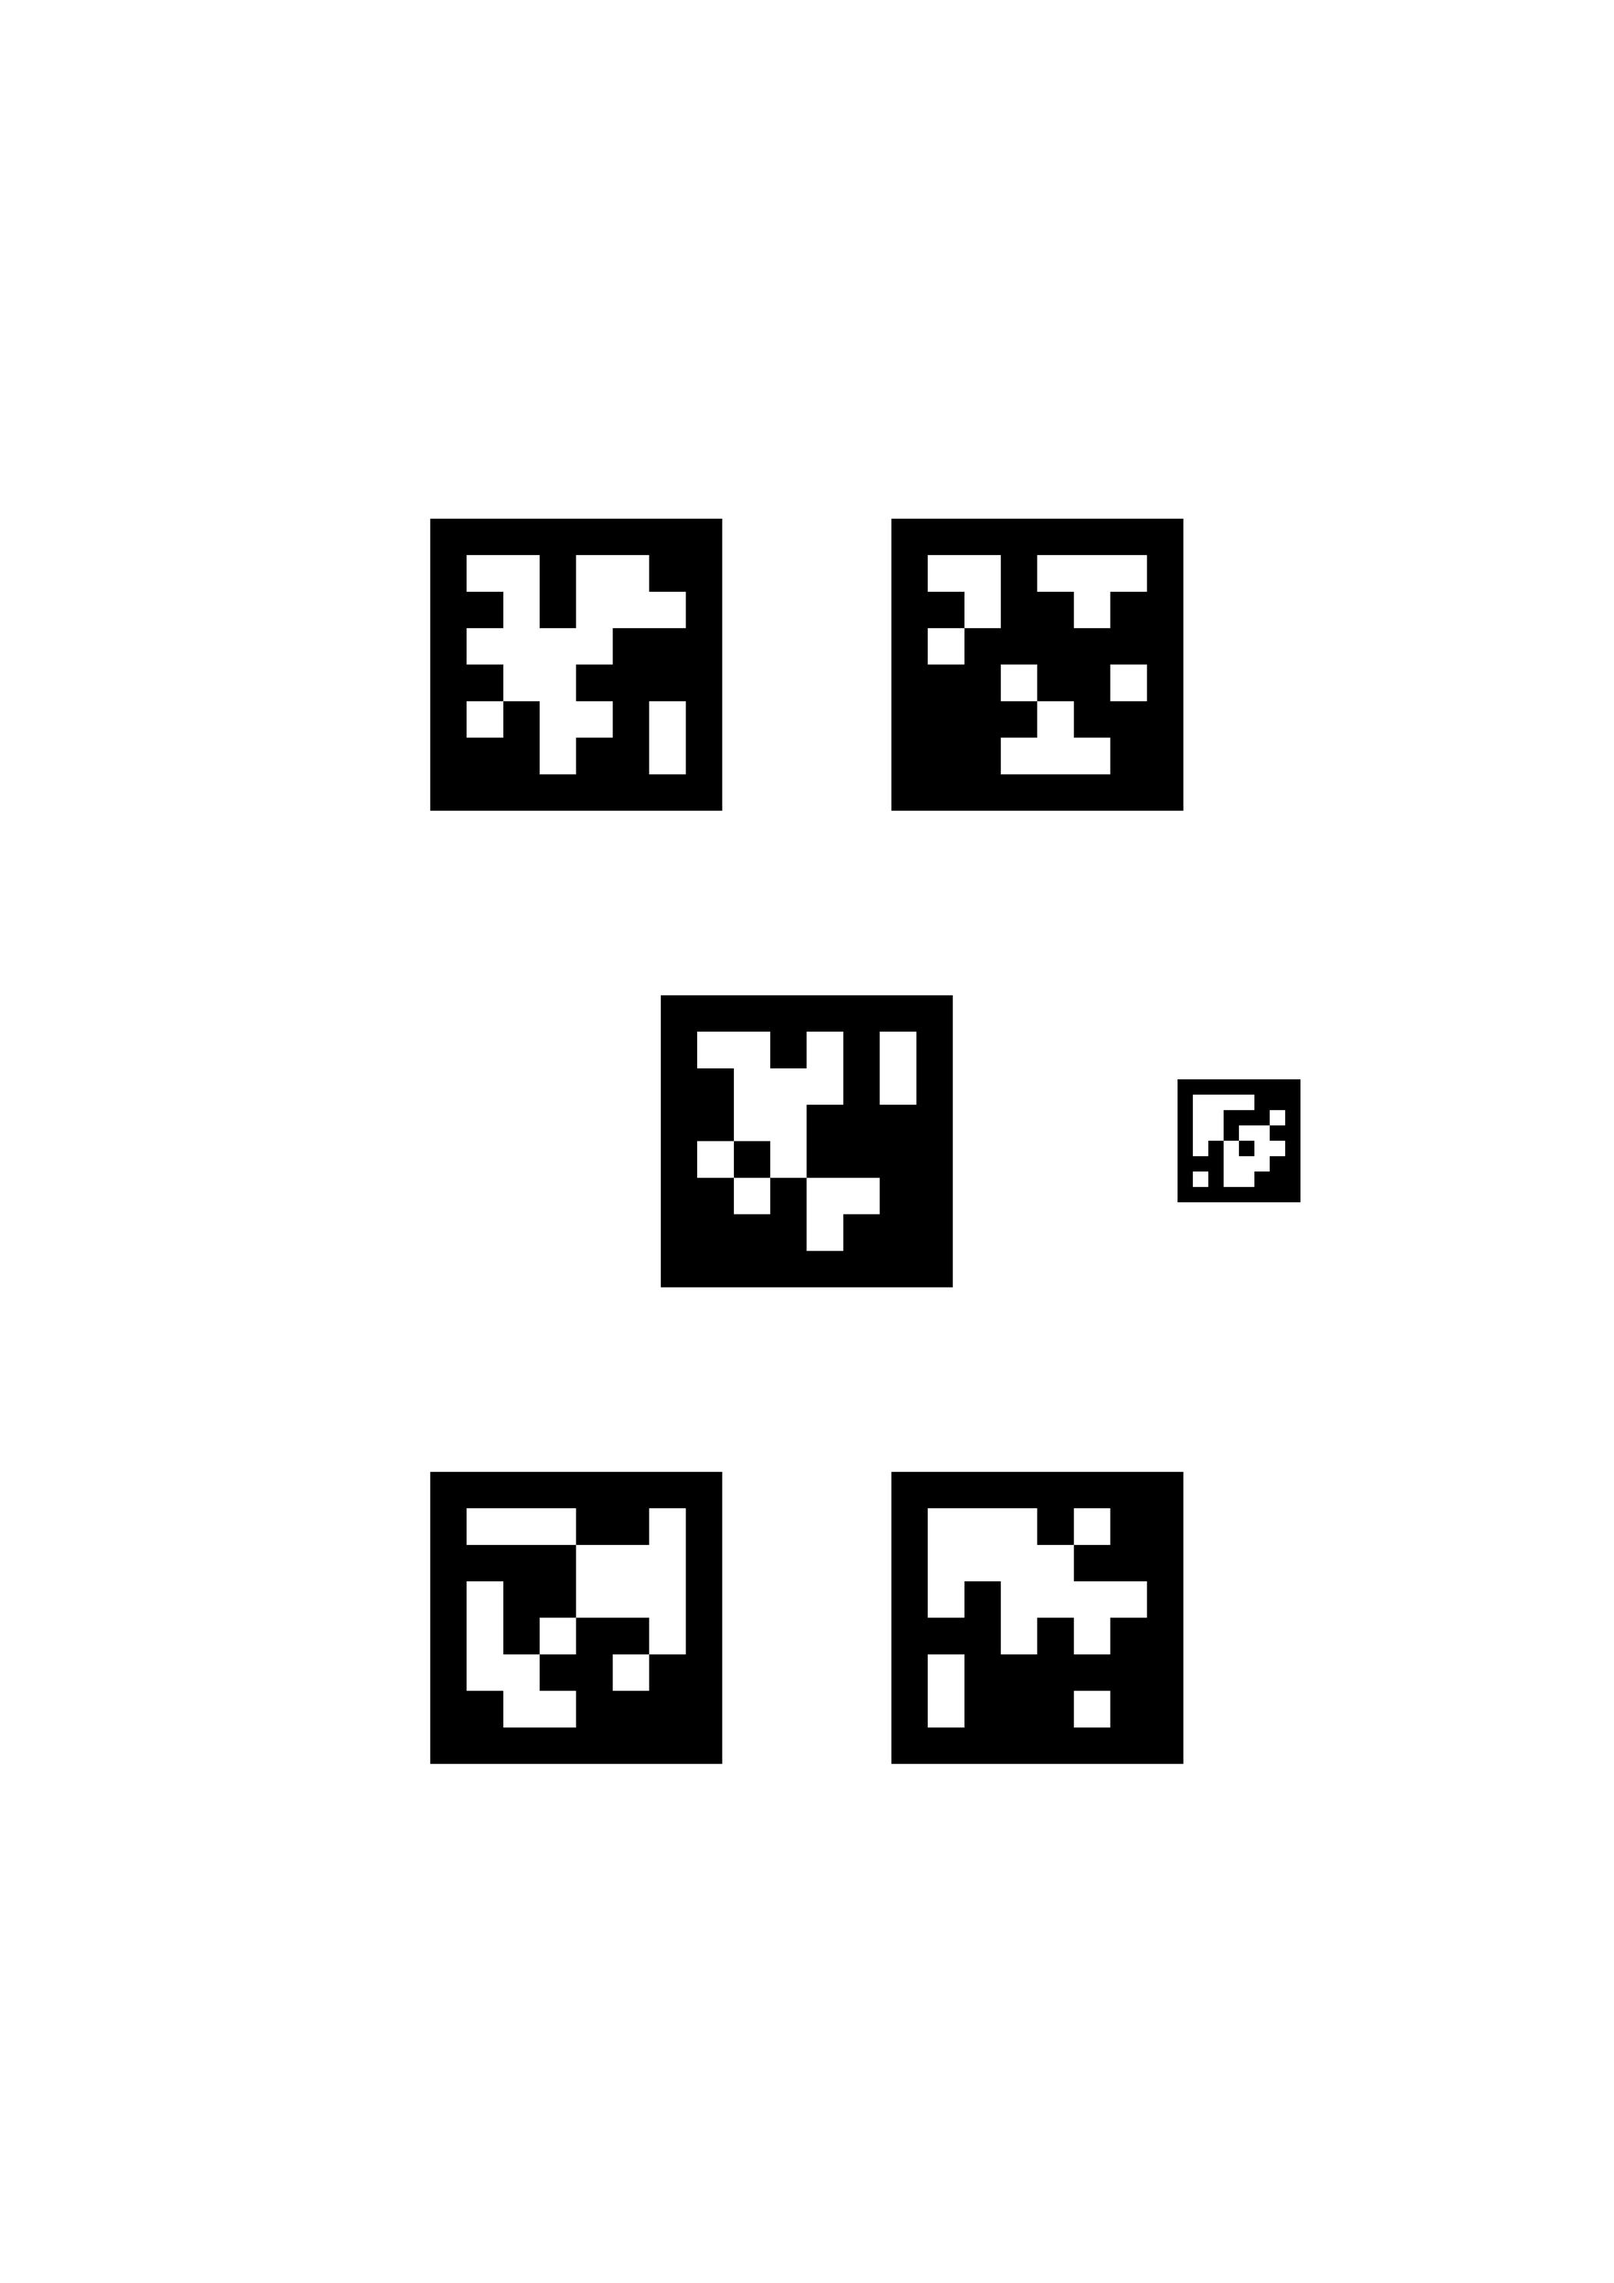
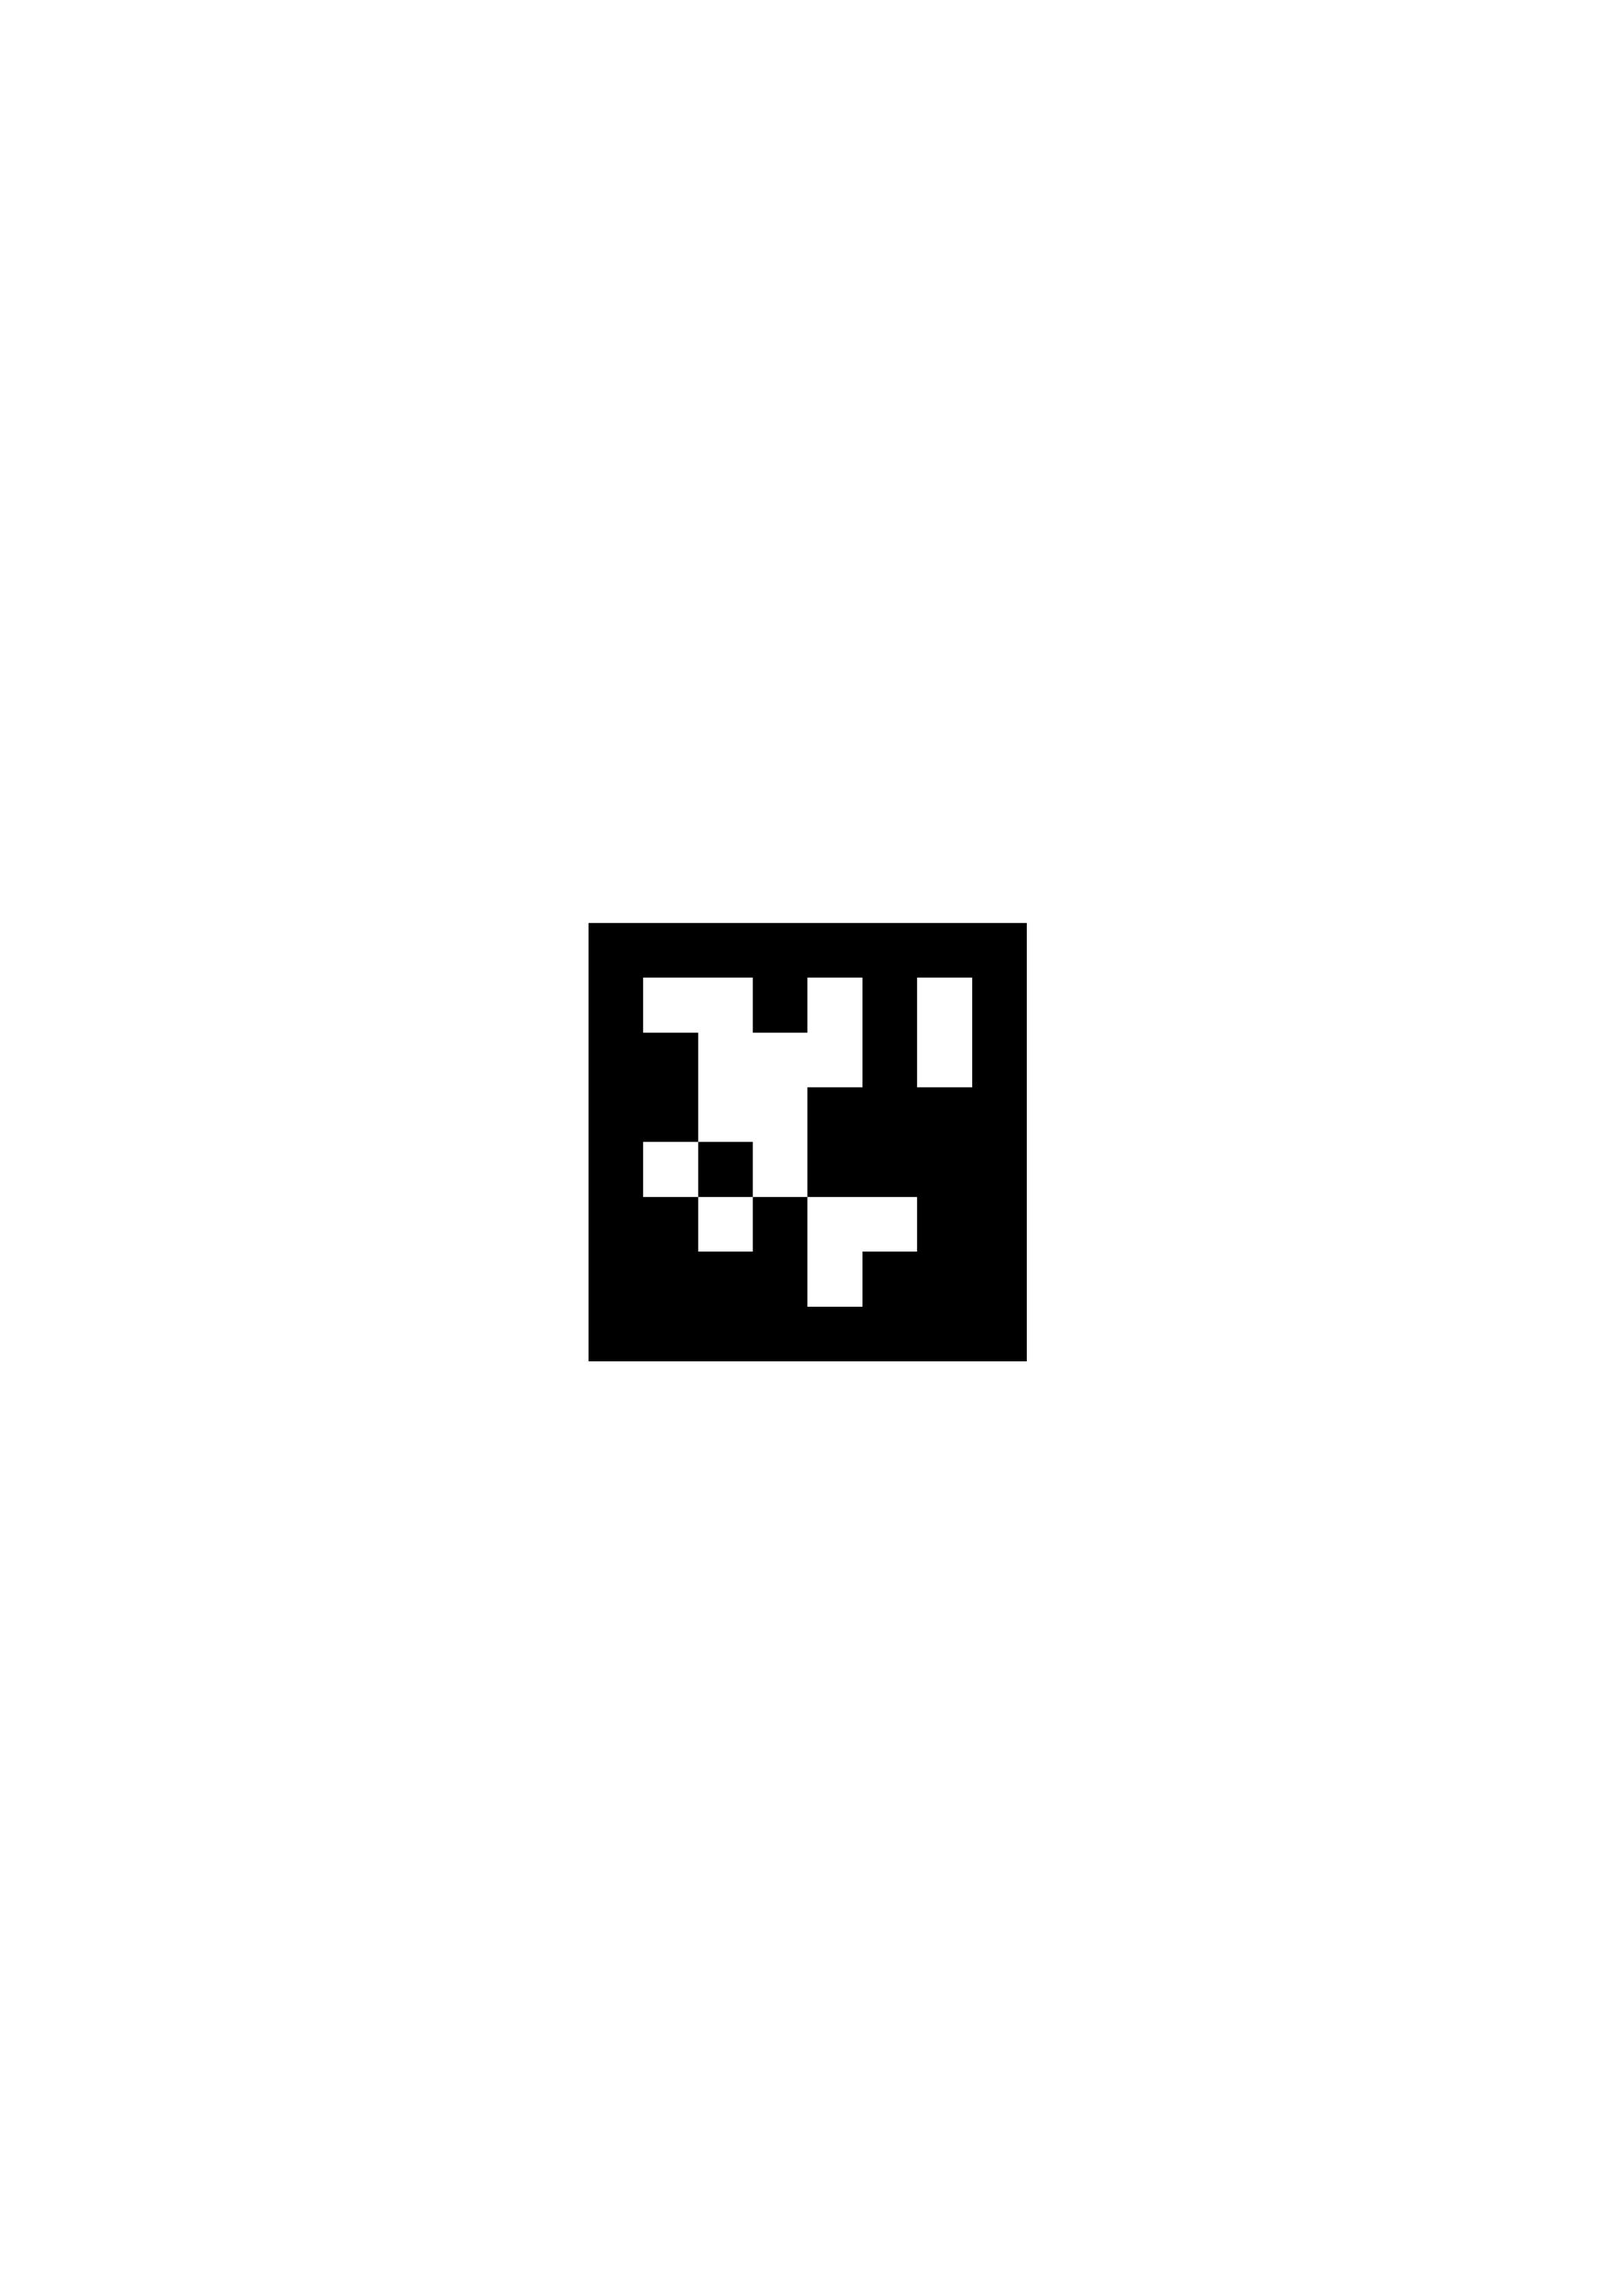
[Mini Quadrotor][Code] Changing with landing gear
I am try to generate a smaller apriltag which is placed on the landing gear. And I also onboard computer to record the topic of camera.

diff --git a/robots/mini_quadrotor/scripts/Picture_generate.py b/robots/mini_quadrotor/scripts/Picture_generate.py
@@ -2,23 +2,23 @@ from PIL import Image
 
 # 打开6张图片
 image0 = Image.open("/home/lyn/ros/jsk_aerial_robot_ws/src/jsk_aerial_robot/aerial_robot_simulation/gazebo_model/models/Apriltag36_11_00000/materials/textures/tag36_11_00000.png")
-image1 = Image.open("/home/lyn/ros/jsk_aerial_robot_ws/src/jsk_aerial_robot/aerial_robot_simulation/gazebo_model/models/Apriltag36_11_00001/materials/textures/tag36_11_00001.png")
-image2 = Image.open("/home/lyn/ros/jsk_aerial_robot_ws/src/jsk_aerial_robot/aerial_robot_simulation/gazebo_model/models/Apriltag36_11_00002/materials/textures/tag36_11_00002.png")
-image3 = Image.open("/home/lyn/ros/jsk_aerial_robot_ws/src/jsk_aerial_robot/aerial_robot_simulation/gazebo_model/models/Apriltag36_11_00003/materials/textures/tag36_11_00003.png")
-image4 = Image.open("/home/lyn/ros/jsk_aerial_robot_ws/src/jsk_aerial_robot/aerial_robot_simulation/gazebo_model/models/Apriltag36_11_00004/materials/textures/tag36_11_00004.png")
-image5 = Image.open("/home/lyn/ros/jsk_aerial_robot_ws/src/jsk_aerial_robot/aerial_robot_simulation/gazebo_model/models/Apriltag36_11_00005/materials/textures/tag36_11_00005.png")
+#image1 = Image.open("/home/lyn/ros/jsk_aerial_robot_ws/src/jsk_aerial_robot/aerial_robot_simulation/gazebo_model/models/Apriltag36_11_00001/materials/textures/tag36_11_00001.png")
+#image2 = Image.open("/home/lyn/ros/jsk_aerial_robot_ws/src/jsk_aerial_robot/aerial_robot_simulation/gazebo_model/models/Apriltag36_11_00002/materials/textures/tag36_11_00002.png")
+#image3 = Image.open("/home/lyn/ros/jsk_aerial_robot_ws/src/jsk_aerial_robot/aerial_robot_simulation/gazebo_model/models/Apriltag36_11_00003/materials/textures/tag36_11_00003.png")
+#image4 = Image.open("/home/lyn/ros/jsk_aerial_robot_ws/src/jsk_aerial_robot/aerial_robot_simulation/gazebo_model/models/Apriltag36_11_00004/materials/textures/tag36_11_00004.png")
+#image5 = Image.open("/home/lyn/ros/jsk_aerial_robot_ws/src/jsk_aerial_robot/aerial_robot_simulation/gazebo_model/models/Apriltag36_11_00005/materials/textures/tag36_11_00005.png")
 
 
 # 设定固定大小
-new_width, new_height = 475, 475
+new_width, new_height = 713, 713
 
 # 调整图片大小
 image0_resized = image0.resize((new_width, new_height))
-image1_resized = image1.resize((new_width, new_height))
-image2_resized = image2.resize((new_width, new_height))
-image3_resized = image3.resize((new_width, new_height))
-image4_resized = image4.resize((new_width, new_height))
-image5_resized = image5.resize((200, 200))
+#image1_resized = image1.resize((new_width, new_height))
+#image2_resized = image2.resize((new_width, new_height))
+#image3_resized = image3.resize((new_width, new_height))
+#image4_resized = image4.resize((new_width, new_height))
+#image5_resized = image5.resize((200, 200))
 
 
 # 创建一个新的图像
@@ -27,12 +27,12 @@ result_height = 2970
 result_image = Image.new("RGB", (result_width, result_height),(255,255,255,0))
 
 # 将图片粘贴到新图像上（你可以根据需要修改坐标）
-result_image.paste(image0_resized, (812, 1247))
-result_image.paste(image1_resized, (512, 627))
-result_image.paste(image2_resized, (1112, 627))
-result_image.paste(image3_resized, (512, 1867))
-result_image.paste(image4_resized, (1112, 1867))
-result_image.paste(image5_resized, (1512, 1384))
+result_image.paste(image0_resized, (694, 1129))
+#result_image.paste(image1_resized, (512, 627))
+#result_image.paste(image2_resized, (1112, 627))
+#result_image.paste(image3_resized, (512, 1867))
+#result_image.paste(image4_resized, (1112, 1867))
+#result_image.paste(image5_resized, (1512, 1384))
 
 
 # 保存结果

diff --git a/robots/mini_quadrotor/scripts/Aprialtag_landing_demo.py b/robots/mini_quadrotor/scripts/Aprialtag_landing_demo.py
@@ -98,40 +98,41 @@ class AprillandNode:
         #print(f'Type the begin point')
         # Type the number
         #self.get_user_input()
-        self.nav_info(1, 0, 0.7)
-        time.sleep(3)
+        #self.nav_info(1, 0, 1.0)
+        #time.sleep(3)
         #while not rospy.is_shutdown():
             #if -0.05 < self.Px < 0.05:
                 #if -0.05 < self.Py - 0 < 0.05:
                     #print(f'I have arrived!')
                     #break
-        self.nav_info(0.6, 0, 0.7)
+        self.nav_info(0.6, 0, 1.0)
         time.sleep(3)
-        self.nav_info(0.3, 0, 0.7)
-        time.sleep(3)
+        #self.nav_info(0.3, 0, 0.7)
+        #time.sleep(3)
 
 
     def land_camera(self):
         #print(f'Type the goal point')
         #self.get_user_input()
-        self.nav_info(-0.3, 0, 0.7)
+        self.nav_info(0.0, 0, 0.8)
 
         while not rospy.is_shutdown():
             if (self.Rx + self.Ry) != 0:
-                self.nav_info(self.Rx, self.Ry, 0.5)
-                if -0.05 < math.sqrt((self.Rx-self.Px) ** 2 + (self.Ry-self.Py) ** 2) < 0.05:
-                    time.sleep(1)
-                    print(f'Safe landing!')
-                    print(f'X = {self.Px}, Y = {self.Py}')
-                    self.land()
-                    time.sleep(1)
-                    sys.exit()
+                self.nav_info(self.Rx, self.Ry, 0.8)
+                print(f'Safe landing!')
+                print(f'X = {self.Px}, Y = {self.Py}')
+                self.land()
+                time.sleep(1)
+                sys.exit()
+                #time.sleep(1)
+                #if -0.03 < math.sqrt((self.Rx-self.Px) ** 2 + (self.Ry-self.Py) ** 2) < 0.03:
+
 
 
 if __name__ == '__main__':
     node = AprillandNode()
     time.sleep(0.5)
-    node.publish_flight_nav()
+    #node.publish_flight_nav()
     node.land_camera()
     while not rospy.is_shutdown():
         rospy.spin()
